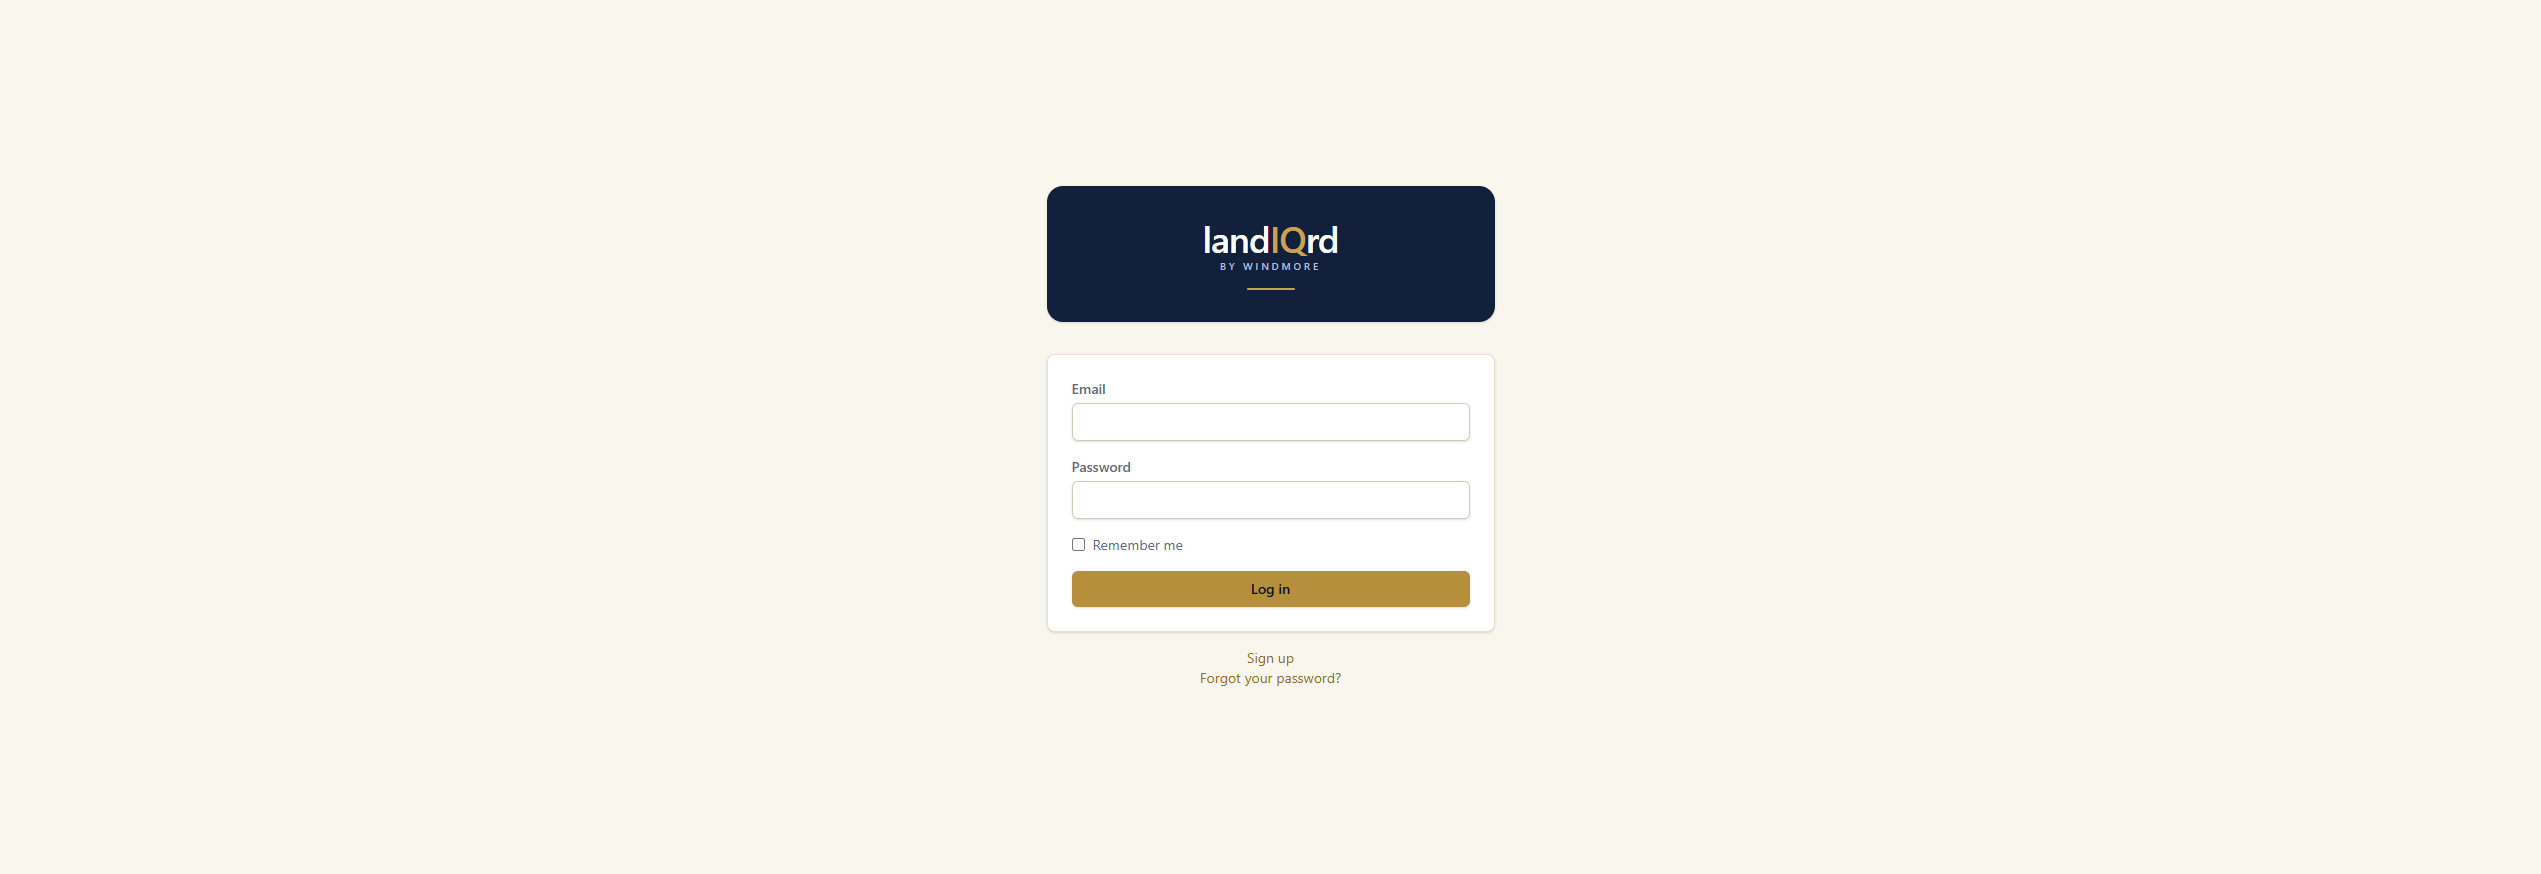
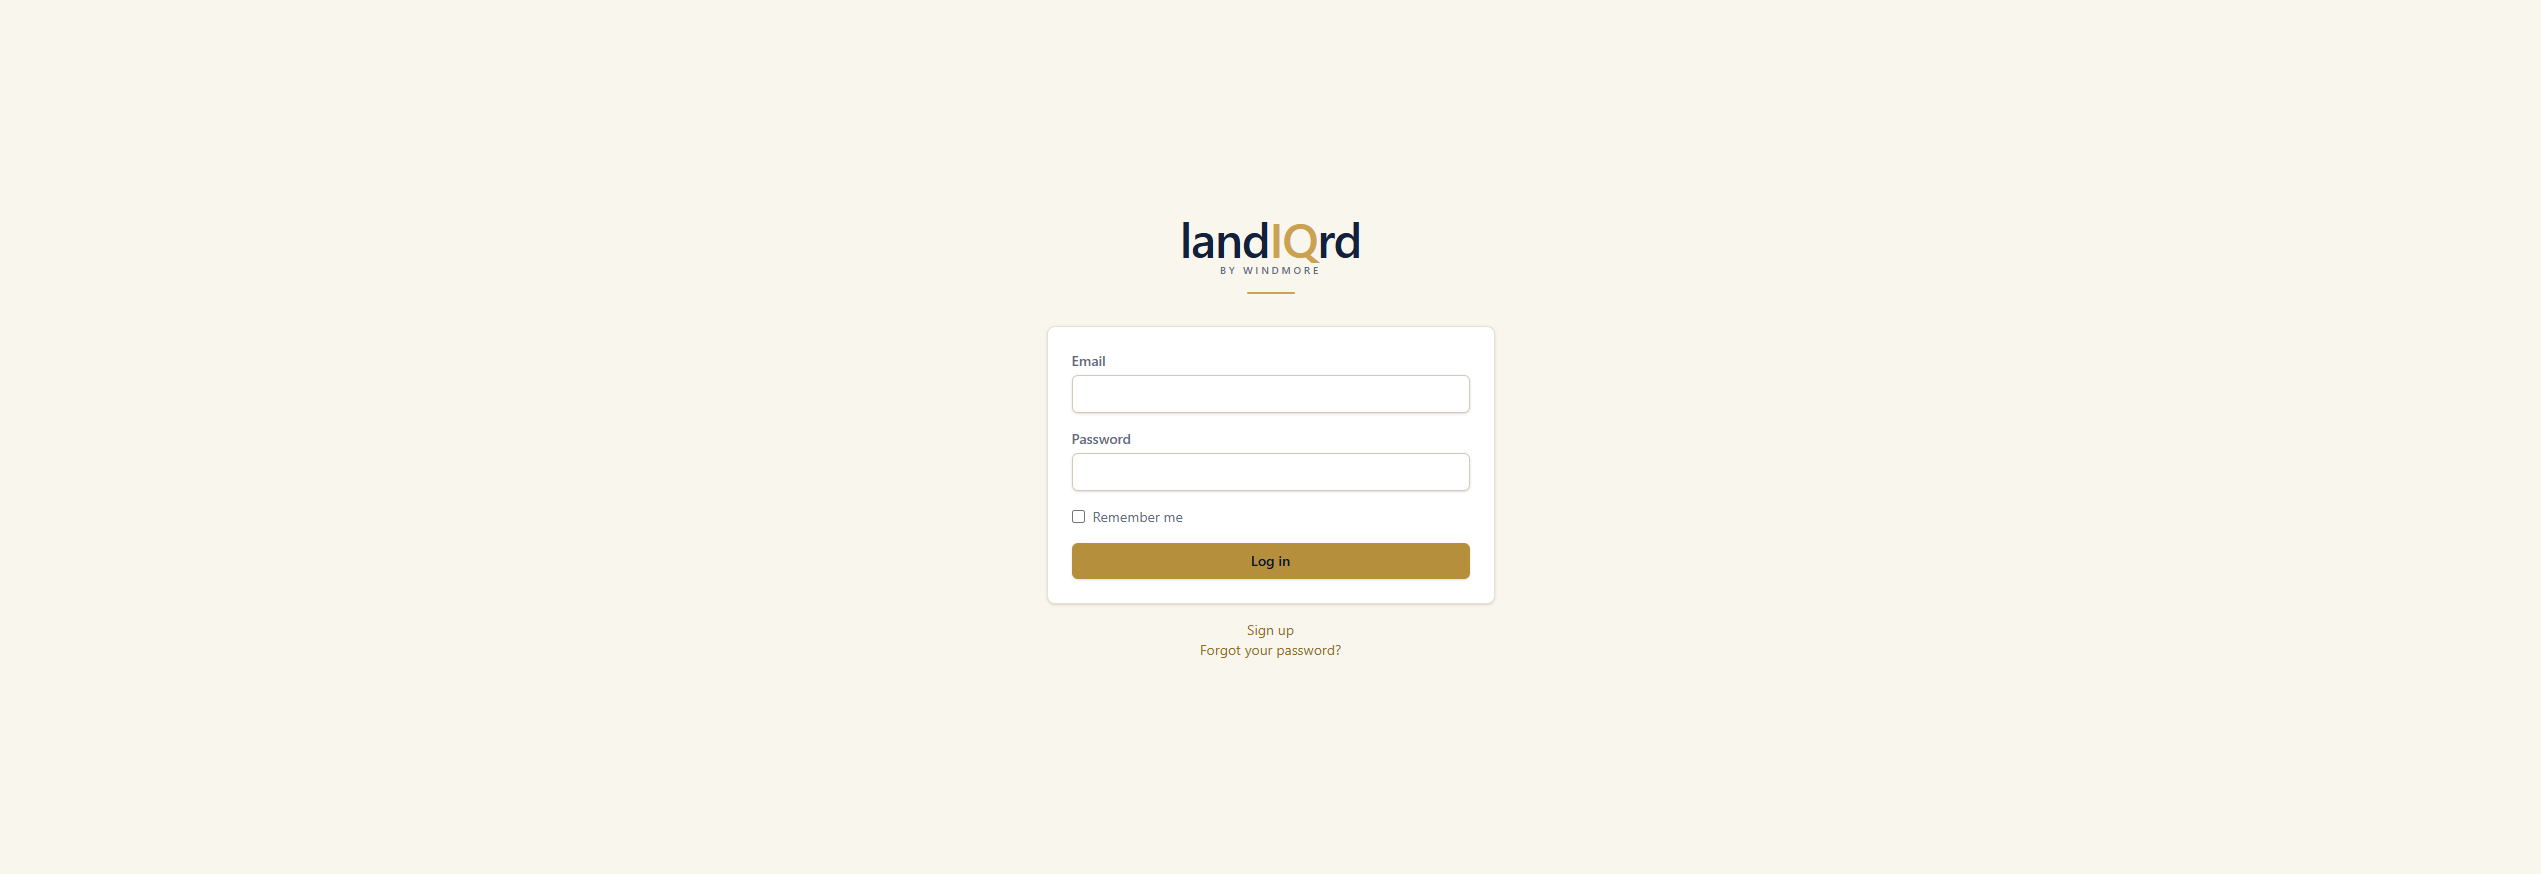
add walkthrough docs and clean up some rough edges

diff --git a/app/models/job.rb b/app/models/job.rb
@@ -11,6 +11,24 @@ class Job < ApplicationRecord
     "Pacific Time (US & Canada)"
   ].freeze
 
+  # Dominant US time zone for a property's state. Used when a job is created
+  # so walkthrough times are not stuck on the Eastern column default.
+  STATE_TIMEZONES = {
+    "CT" => TIMEZONES[0], "DE" => TIMEZONES[0], "DC" => TIMEZONES[0], "FL" => TIMEZONES[0],
+    "GA" => TIMEZONES[0], "IN" => TIMEZONES[0], "KY" => TIMEZONES[0], "ME" => TIMEZONES[0],
+    "MD" => TIMEZONES[0], "MA" => TIMEZONES[0], "MI" => TIMEZONES[0], "NH" => TIMEZONES[0],
+    "NJ" => TIMEZONES[0], "NY" => TIMEZONES[0], "NC" => TIMEZONES[0], "OH" => TIMEZONES[0],
+    "PA" => TIMEZONES[0], "RI" => TIMEZONES[0], "SC" => TIMEZONES[0], "VT" => TIMEZONES[0],
+    "VA" => TIMEZONES[0], "WV" => TIMEZONES[0],
+    "AL" => TIMEZONES[1], "AR" => TIMEZONES[1], "IL" => TIMEZONES[1], "IA" => TIMEZONES[1],
+    "KS" => TIMEZONES[1], "LA" => TIMEZONES[1], "MN" => TIMEZONES[1], "MS" => TIMEZONES[1],
+    "MO" => TIMEZONES[1], "NE" => TIMEZONES[1], "ND" => TIMEZONES[1], "OK" => TIMEZONES[1],
+    "SD" => TIMEZONES[1], "TN" => TIMEZONES[1], "TX" => TIMEZONES[1], "WI" => TIMEZONES[1],
+    "AZ" => TIMEZONES[2], "CO" => TIMEZONES[2], "ID" => TIMEZONES[2], "MT" => TIMEZONES[2],
+    "NM" => TIMEZONES[2], "UT" => TIMEZONES[2], "WY" => TIMEZONES[2],
+    "CA" => TIMEZONES[3], "NV" => TIMEZONES[3], "OR" => TIMEZONES[3], "WA" => TIMEZONES[3]
+  }.freeze
+
   MAX_ATTACHMENT_SIZE = 25.megabytes
   ATTACHMENT_TYPES = (AttachmentValidation::IMAGE_TYPES + AttachmentValidation::DOCUMENT_TYPES).freeze
 
@@ -28,6 +46,7 @@ class Job < ApplicationRecord
   enum :status, { draft: 0, open: 1, awarded: 2, closed: 3 }, prefix: true
 
   before_validation :normalize_trades
+  before_validation :set_timezone_from_property, on: :create
 
   validates :title, presence: true, length: { maximum: 150 }
   validates :description, length: { maximum: 1000 }
@@ -106,10 +125,21 @@ class Job < ApplicationRecord
     proposals.find_by(contractor_id: contractor.id)
   end
 
+  def self.timezone_for_state(state)
+    STATE_TIMEZONES.fetch(state.to_s.strip.upcase, TIMEZONES.first)
+  end
+
   private
 
   def normalize_trades
     self.trades = Array(trades).compact_blank.map(&:to_s).uniq
+  end
+
+  def set_timezone_from_property
+    return if property&.state.blank?
+    return if timezone.present? && timezone != self.class.columns_hash["timezone"].default
+
+    self.timezone = self.class.timezone_for_state(property.state)
   end
 
   def trades_are_known

diff --git a/app/controllers/jobs_controller.rb b/app/controllers/jobs_controller.rb
@@ -67,6 +67,7 @@ class JobsController < ApplicationController
     authorize @job, :manage?
     @slots = @job.walkthrough_slots.includes(walkthrough_bookings: :contractor)
     @bookings = booked_appointments
+    prepare_walkthrough_form
   end
 
   # Step 3: review and post.
@@ -132,6 +133,20 @@ class JobsController < ApplicationController
       state: job.property&.state,
       limit: 6
     )
+  end
+
+  # The form adds more slots. It should not look like a time is still selected
+  # after publish, and the date/duration should match the slots already saved.
+  def prepare_walkthrough_form
+    latest = @slots.max_by(&:starts_at)
+    if latest
+      @walkthrough_date = latest.starts_at.in_time_zone(@job.timezone).to_date
+      minutes = ((latest.ends_at - latest.starts_at) / 60).round
+      @walkthrough_duration = JobsHelper::WALKTHROUGH_DURATIONS.value?(minutes) ? minutes : 30
+    else
+      @walkthrough_date = Date.tomorrow
+      @walkthrough_duration = 30
+    end
   end
 
   def booked_appointments

diff --git a/spec/requests/jobs_spec.rb b/spec/requests/jobs_spec.rb
@@ -52,6 +52,19 @@ RSpec.describe "Jobs", type: :request do
       expect(job.slot_capacity).to eq(2)
     end
 
+    it "leaves the walkthrough form ready to add another slot" do
+      job = create(:job, property: property, timezone: "Central Time (US & Canada)")
+      zone = ActiveSupport::TimeZone["Central Time (US & Canada)"]
+      start = zone.local(2026, 11, 3, 9)
+      create(:walkthrough_slot, job: job, starts_at: start, ends_at: start + 1.hour)
+
+      get walkthroughs_job_path(job)
+
+      expect(response.body).to include('value="2026-11-03"')
+      expect(response.body).to match(/value="60"[^>]*selected|selected[^>]*value="60"/)
+      expect(response.body).not_to match(/id="times_0900"[^>]*checked/)
+    end
+
     it "refuses to publish an incomplete job" do
       job = create(:job, property: property, description: nil)
       post publish_job_path(job)

diff --git a/spec/models/job_spec.rb b/spec/models/job_spec.rb
@@ -91,6 +91,18 @@ RSpec.describe Job, type: :model do
     end
   end
 
+  describe ".timezone_for_state" do
+    it "uses the property's state instead of the Eastern default" do
+      job = create(:job, property: create(:property, state: "TX"))
+      expect(job.timezone).to eq("Central Time (US & Canada)")
+    end
+
+    it "keeps a timezone passed in explicitly" do
+      job = create(:job, property: create(:property, state: "TX"), timezone: "Pacific Time (US & Canada)")
+      expect(job.timezone).to eq("Pacific Time (US & Canada)")
+    end
+  end
+
   describe "#work_order_category" do
     it "uses the first trade that is a work order category" do
       expect(build(:job, trades: %w[roofing]).work_order_category).to eq("roofing")

diff --git a/app/helpers/jobs_helper.rb b/app/helpers/jobs_helper.rb
@@ -50,7 +50,7 @@ module JobsHelper
   def job_thumbnail(job, classes: "h-28 w-36")
     image = job.attachments.find(&:image?)
     if image
-      image_tag image.variant(resize_to_fill: [ 360, 280 ]), class: "#{classes} shrink-0 rounded-lg object-cover", alt: job.title
+      image_tag image, class: "#{classes} shrink-0 rounded-lg object-cover", alt: job.title
     else
       tag.div(icon_tag(:work_orders, classes: "h-8 w-8"), class: "#{classes} grid shrink-0 place-items-center rounded-lg bg-slate-100 text-slate-400 dark:bg-slate-700/50")
     end

diff --git a/docs/walkthrough/README.md b/docs/walkthrough/README.md
@@ -1,0 +1,132 @@
+# Marketplace and design walkthrough
+
+Guided tour of the request-for-proposals flow and the navy, gold, and cream layout. Screenshots are from a fresh demo database (`password123` on every account below). The app in these shots is running at `http://localhost:3000`.
+
+| Role | Email |
+|---|---|
+| Landlord | `landlord@propman.test` |
+| Contractor | `contractor@propman.test` |
+| Tenant | `tenant@propman.test` |
+
+## What changed
+
+- **Design.** Cream page background, navy sidebar, gold buttons and the gold "IQ" in the wordmark. Signed-in pages use a left sidebar instead of a top nav. The header shows the current section, then the page title.
+- **Proposals.** A landlord describes a job, picks trades, attaches photos or a PDF, optionally publishes walkthrough times, and posts it. Matching contractors are ranked by shared trades and the same city or state. They are not geocoded.
+- **Contractor side.** My trades, Find work, walkthrough booking, and a priced proposal (amount, scope, exclusions, start, duration, files).
+- **Award.** Choosing a proposal creates a work order at that price, assigns the contractor, declines the other proposals, and closes the job.
+
+Payments are not part of this pass.
+
+## 1. Sign in
+
+![Login](01-login.png)
+
+The wordmark sits on the cream page above the form card. Gold "IQ", gold rule, gold Log in button. Sign up and password reset use the same screen.
+
+## 2. Landlord dashboard
+
+Sign in as `landlord@propman.test`.
+
+![Landlord dashboard](02-landlord-dashboard.png)
+
+The sidebar is Dashboard, Properties, Work Orders, Proposals, Schedule, Contractors, and Messages. The header reads "Dashboard". Panels are the existing portfolio, work orders, tenants, leases, and conversations, restyled onto cream cards.
+
+## 3. Proposal list
+
+Sidebar → **Proposals** (`/jobs`).
+
+![Proposal list](03-proposals-index.png)
+
+Every request for proposals, with status (Draft, Open, Awarded, Closed), trades, proposal count, and deadline. **Request proposals** starts a new one. Filter chips along the top limit the list.
+
+The demo set includes a roof job with three bids, an open painting job, an awarded concrete job, a landscaping draft, and the hallway job created in the steps below.
+
+## 4. Job details
+
+**Request proposals.**
+
+![New job](04-new-job.png)
+
+Three steps: Job details, Walkthroughs, Review & post. The landlord picks a property, writes the title and description (1,000 character counter), checks one or more trades, and can drop in JPG, PNG, or PDF files up to 25 MB. The deadline is required before posting.
+
+The **Matching contractors** panel updates as trades and the property change. Score is trade overlap plus a city or state bonus. A contractor who has not set a service area is treated as in-area.
+
+## 5. Review and post
+
+After saving details and walkthroughs, **Continue to review**.
+
+![Review and post](05-review-and-post.png)
+
+Confirms title, description, trades, deadline, walkthrough rules, and attachments, and lists who will be notified. **Post job** opens the job and emails matching contractors who opted in.
+
+## 6. Walkthrough times
+
+Step 2, or the Walkthroughs tab on a posted job.
+
+![Walkthroughs](06-walkthroughs.png)
+
+Pick a date, duration, timezone, and one or more hours. **Walkthrough required to submit a proposal** blocks bids until that contractor has a confirmed slot. Capacity is how many contractors can book the same time. The right-hand card is the contractor preview, including already published slots and a remove link.
+
+On this job the published slots are Tuesday, Nov 3, 9:00–10:00, 1:00–2:00, and 2:00–3:00 Central, two contractors each, and a walkthrough is required.
+
+## 7. Posted job
+
+![Posted job](07-posted-job.png)
+
+Overview, Walkthroughs, and Proposals tabs. The landlord can edit details while the job is open, or close it without awarding. The glance card counts proposals and booked walkthroughs.
+
+## 8. Compare proposals
+
+Open the seeded roof job → **Proposals**.
+
+![Compare proposals](08-compare-proposals.png)
+
+Bids sort by lowest price or newest. The cheapest card is outlined and badged. Each card shows the contractor, trades, price, start date, duration, scope, and exclusions. **Award & create work order** is the decision.
+
+## 9. Awarded work order
+
+The seeded concrete job was already awarded. Work Orders → that job.
+
+![Awarded work order](09-awarded-work-order.png)
+
+A gold banner shows the awarded price and contractor, with a link back to the proposals. The description includes the awarded scope, exclusions, earliest start, and duration. The winning contractor is assigned as Accepted. Other proposals on that job are declined.
+
+## 10. Contractor trades
+
+Sign out, then sign in as `contractor@propman.test`. Sidebar → **My trades**.
+
+![My trades](10-contractor-trades.png)
+
+The contractor checks trades, sets city, state, and radius, and can turn matching-job email on or off. **Save preferences** stores it. Matching opportunities on the right are open jobs that share a trade. This account is roofing, painting, plumbing, and general, based in Austin, TX, within 50 miles.
+
+The contractor sidebar is Dashboard, My trades, Find work, Walkthroughs, Proposals, Assigned Work, Schedule, Portfolio, Company profile, and Messages.
+
+## 11. Find work
+
+Sidebar → **Find work**.
+
+![Find work](11-find-work.png)
+
+Open jobs for the contractor's trades, with a chip per trade. Each card shows a photo when one was uploaded, the property location, whether a walkthrough is available (and required), and the proposal deadline.
+
+## 12. Job detail and booking
+
+**View job** on the hallway repaint.
+
+![Contractor job](12-contractor-job.png)
+
+Description, attachments, and bookable times in the job's timezone. Because this job requires a walkthrough, **Submit a proposal** stays disabled until a slot is reserved. **Reserve walkthrough** books one slot. The contractor can hold only one active booking per job, and a full slot cannot be double-booked.
+
+## 13. Submit a proposal
+
+The exterior repaint does not require a walkthrough, so Find work → that job → **Submit a proposal**.
+
+![Proposal form](13-proposal-form.png)
+
+Dollar amount, scope and exclusions (500 characters each), earliest start, duration, and optional PDF or image attachments. Submitting notifies the landlord. The contractor can edit or withdraw the proposal while the job is still open, from **Proposals** in the sidebar.
+
+## Rough edges
+
+- The contractor nav item is labeled **Assigned Work**, not Work Orders. That label predates this pass.
+- Header crumbs repeat a long page title, for example `Proposals / Compare proposals - Roof repair after storm damage`.
+- Avatar, portfolio, and work-order photo thumbnails still go through Active Storage variants. This machine has neither libvips nor ImageMagick, so those older thumbnails 500. Job photos in this flow are served as the original file and display.
